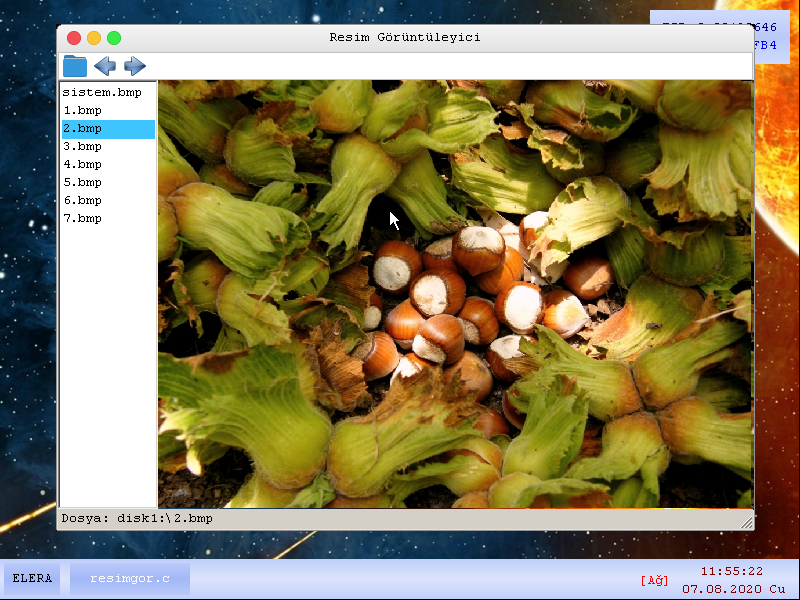
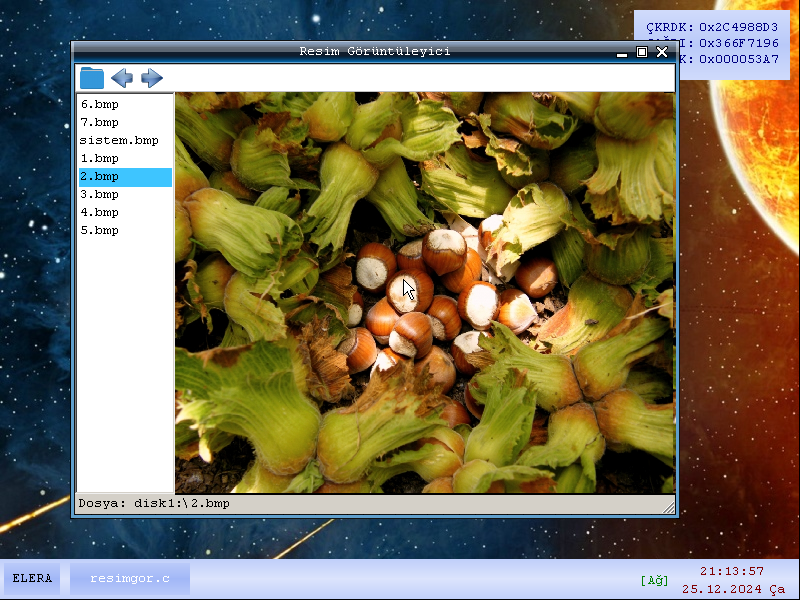
+ icmp protokolündeki 0 yüklenmiş veriye yanıt verme problemi çözümlendi + tüm görsel tanıtım resimleri güncellendi

diff --git a/README.md b/README.md
@@ -15,11 +15,11 @@ Kullanılan Yazılım Araçları:
 
 ![Ağ](ag.png)
 
-![Görüntü3](elera3.png)
+![Dosya Yöneticisi](dsyyntcs.png)
 
 ![DNS](dns.png)
 
-![Görüntü5](elera5.png)
+![Tarayıcı](tarayici.png)
 
 ![Defter](defter.png)
 
